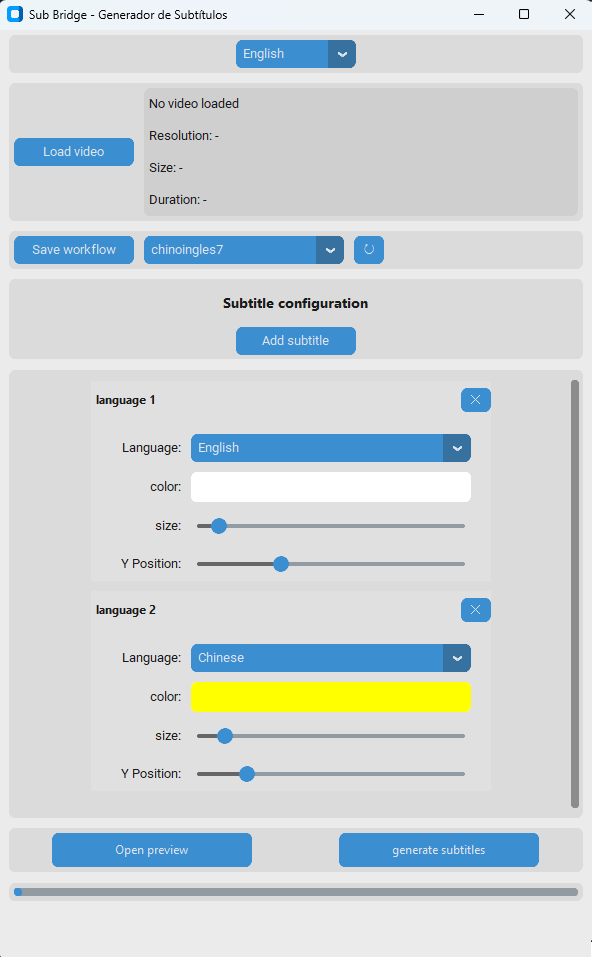
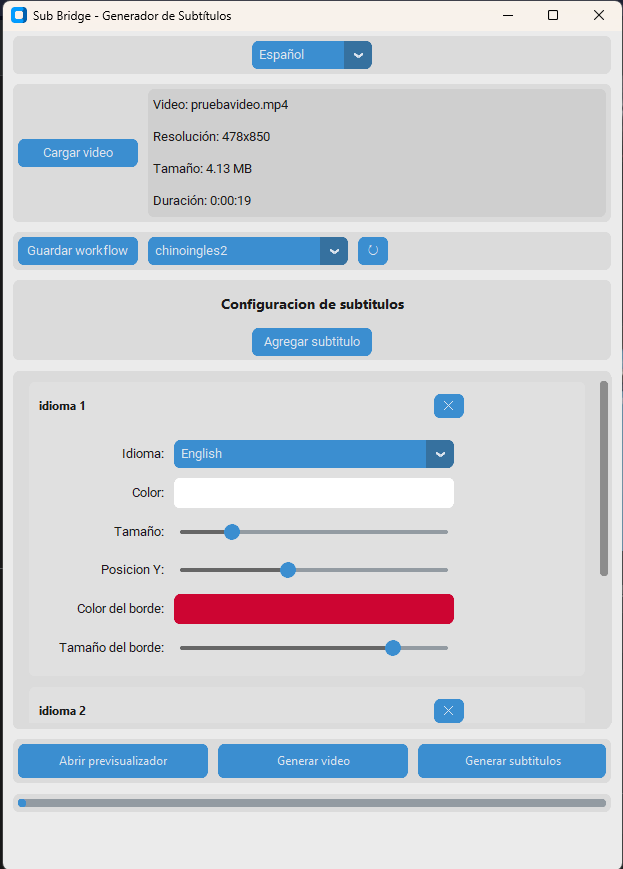
Added translations for generate video button and updated GUI image

diff --git a/subtitle_generator.py b/subtitle_generator.py
@@ -37,7 +37,8 @@ APP_TEXTS = {
         'TEXT_SIZE_LABEL': "Tamaño: ",
         'TEXT_DURATION_LABEL': "Duración: ",
         'TEXT_BORDER_COLOR': "Color del borde",
-        'TEXT_BORDER_SIZE': "Tamaño del borde"
+        'TEXT_BORDER_SIZE': "Tamaño del borde",
+        'TEXT_GENERATE_VIDEO': "Generar video"
     },
     # English
     1: {
@@ -59,7 +60,8 @@ APP_TEXTS = {
         'TEXT_SIZE_LABEL': "Size: ",
         'TEXT_DURATION_LABEL': "Duration: ",
         'TEXT_BORDER_COLOR': "Border color",
-        'TEXT_BORDER_SIZE': "Border size"
+        'TEXT_BORDER_SIZE': "Border size",
+        'TEXT_GENERATE_VIDEO': "Generate video"
     },
     # Chinese
     2: {
@@ -81,7 +83,8 @@ APP_TEXTS = {
         'TEXT_SIZE_LABEL': "大小：",
         'TEXT_DURATION_LABEL': "持续时间：",
         'TEXT_BORDER_COLOR': "边框颜色",
-        'TEXT_BORDER_SIZE': "边框大小"
+        'TEXT_BORDER_SIZE': "边框大小",
+        'TEXT_GENERATE_VIDEO': "生成视频"
     }
 }
 
@@ -91,7 +94,7 @@ def initialize_interface_texts():
     global TEXT_LANGUAGE, TEXT_LANGUAGE_N, TEXT_COLOR, TEXT_SIZE, TEXT_Y_POSITION
     global TEXT_OPEN_PREVIEW, TEXT_GENERATE_SUBTITLES, TEXT_RESOLUTION, TEXT_UPDATE
     global TEXT_NO_VIDEO, TEXT_RESOLUTION_LABEL, TEXT_SIZE_LABEL, TEXT_DURATION_LABEL
-    global TEXT_BORDER_COLOR, TEXT_BORDER_SIZE
+    global TEXT_BORDER_COLOR, TEXT_BORDER_SIZE, TEXT_GENERATE_VIDEO
     
     selected_texts = APP_TEXTS[lenguajeSelect]
     
@@ -114,6 +117,7 @@ def initialize_interface_texts():
     TEXT_DURATION_LABEL = selected_texts['TEXT_DURATION_LABEL']
     TEXT_BORDER_COLOR = selected_texts['TEXT_BORDER_COLOR']
     TEXT_BORDER_SIZE = selected_texts['TEXT_BORDER_SIZE']
+    TEXT_GENERATE_VIDEO = selected_texts['TEXT_GENERATE_VIDEO']
 
 # Inicializar los textos al cargar el módulo
 initialize_interface_texts()
@@ -1657,7 +1661,7 @@ class SubtitleGenerator(ctk.CTk):
         
         generate_video_button = ctk.CTkButton(
             control_frame,
-            text="Generar video",
+            text=TEXT_GENERATE_VIDEO,
             command=self.generate_video,
             width=button_width,
             height=button_height,
